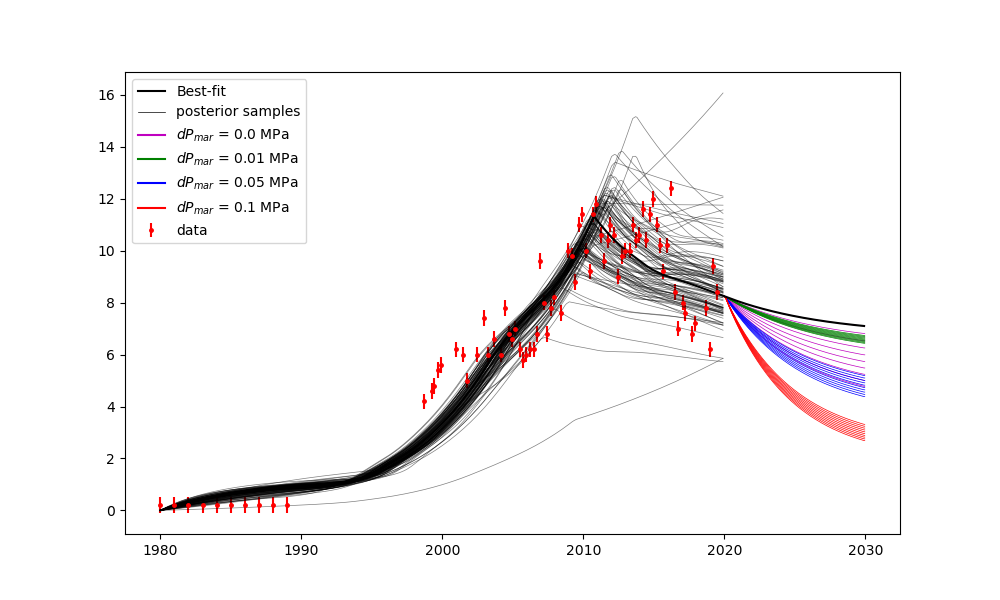
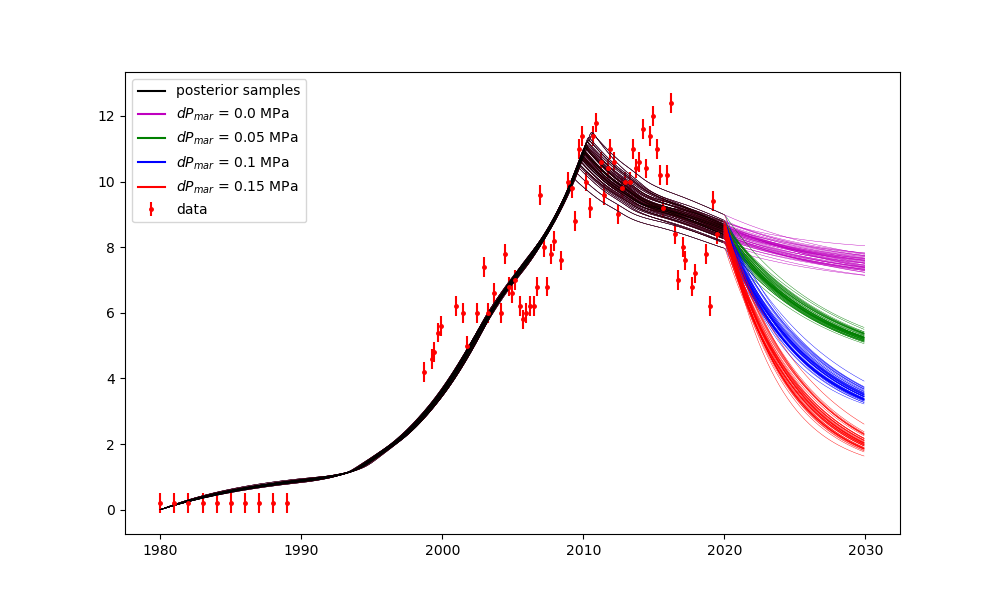
forecast graph improved

diff --git a/model_posterior.py b/model_posterior.py
@@ -12,7 +12,7 @@ t = np.arange(1980,2030,step = 0.1)
 t_pos = np.arange(1980,2020,step = 0.1)
 
 ps, p = posterior_pars()
-print(p)
+#print(p)
 
 b1 = p[0]
 alpha = p[1]
@@ -25,7 +25,7 @@ v=0.3
 fig = plt.figure(figsize=(10,6))
 ax = fig.add_subplot(111)
 #ax.plot(t0,c0, 'ro', label="data", markersize=2.5)
-ax.errorbar(t0,c0,yerr=v,fmt='ro', label='data', markersize=2.5)
+
 
 #ax.plot(t, LPM_Model_forecast(t, b1, alpha, bc, tau, 0), 'k-', label='Forecast best-fit', alpha=0.5)
 
@@ -42,26 +42,31 @@ ax.errorbar(t0,c0,yerr=v,fmt='ro', label='data', markersize=2.5)
 # for i in np.linspace(0.09,0.11,10):
 #     ax.plot(t_forecast, LPM_Model_forecast(t_forecast, b1, alpha, bc, tau, i), 'r-', lw=0.5)
 
-# for pi in range(0,ps.shape[0]):
-#     ax.plot(t, LPM_Model_forecast(t, ps[pi][0], ps[pi][1], ps[pi][2], ps[pi][3],0.05), 'g-', lw=0.5)
+for pi in range(0,ps.shape[0]):
+    ax.plot(t_forecast, LPM_Model_forecast(t_forecast, ps[pi][0], ps[pi][1], ps[pi][2], ps[pi][3],0), 'm-', lw=0.3)
 
-# for pi in range(0,ps.shape[0]):
-#     ax.plot(t, LPM_Model_forecast(t, ps[pi][0], ps[pi][1], ps[pi][2], ps[pi][3],0.1), 'b-', lw=0.5)
+for pi in range(0,ps.shape[0]):
+    ax.plot(t, LPM_Model_forecast(t, ps[pi][0], ps[pi][1], ps[pi][2], ps[pi][3],0.05), 'g-', lw=0.3)
 
-# for pi in range(0,ps.shape[0]):
-#     ax.plot(t, LPM_Model_forecast(t, ps[pi][0], ps[pi][1], ps[pi][2], ps[pi][3],0.15), 'r-', lw=0.5)
+for pi in range(0,ps.shape[0]):
+    ax.plot(t, LPM_Model_forecast(t, ps[pi][0], ps[pi][1], ps[pi][2], ps[pi][3],0.1), 'b-', lw=0.3)
 
-# for pi in range(0,ps.shape[0]):
-#     ax.plot(t, LPM_Model_forecast(t, ps[pi][0], ps[pi][1], ps[pi][2], ps[pi][3],0), 'k-', lw=0.5)
+for pi in range(0,ps.shape[0]):
+    ax.plot(t, LPM_Model_forecast(t, ps[pi][0], ps[pi][1], ps[pi][2], ps[pi][3],0.15), 'r-', lw=0.3)
 
-#effects of acs
-ax.plot(t, LPM_Model(t, b1,1,bc,tau), 'b-', label='Best fit', alpha=1)
-ax.plot(t, LPM_Model(t, b1, alpha, bc, tau), 'k-', label='Forecast Best-fit')
-ax.plot([], [], 'k-', lw=0.5, label='posterior samples')
+for pi in range(0,ps.shape[0]):
+    ax.plot(t_pos, LPM_Model_forecast(t_pos, ps[pi][0], ps[pi][1], ps[pi][2], ps[pi][3],0), 'k-', lw=0.3)
+
+ax.errorbar(t0,c0,yerr=v,fmt='ro', label='data', markersize=2.5)
+
+# #effects of acs
+# ax.plot(t, LPM_Model(t, b1,alpha,bc,tau), 'b-', label='Best fit', alpha=1)
+# ax.plot(t, LPM_Model(t, b1, alpha, bc, tau), 'k-', label='Forecast Best-fit')
+ax.plot([], [], 'k-', label='posterior samples')
 ax.plot([], [], 'm-', label='$dP_{mar}$ = 0.0 MPa')
-ax.plot([], [], 'g-', label='$dP_{mar}$ = 0.01 MPa')
-ax.plot([], [], 'b-', label='$dP_{mar}$ = 0.05 MPa')
-ax.plot([], [], 'r-', label='$dP_{mar}$ = 0.1 MPa')
+ax.plot([], [], 'g-', label='$dP_{mar}$ = 0.05 MPa')
+ax.plot([], [], 'b-', label='$dP_{mar}$ = 0.1 MPa')
+ax.plot([], [], 'r-', label='$dP_{mar}$ = 0.15 MPa')
 ax.legend(loc=2)
-plt.show()
-#plt.savefig("posterior_ensemble.png")
+#plt.show()
+plt.savefig("scenario_forecasts.png")

diff --git a/model_functions_posterior.py b/model_functions_posterior.py
@@ -256,7 +256,7 @@ def posterior_pars():
 
     # calibrating model to data and creating covariance matrix
     p, cov = curve_fit(LPM_Model,t0,c0, bounds=((8e-05,0.25,0,0),(1e-04,0.35,np.inf,np.inf))) 
-    cov = 0.05*cov
+    cov = 0.04*cov
     pos = np.random.multivariate_normal(p, cov, 50) # random variates of the calibrated pars
     # pos=0
     
